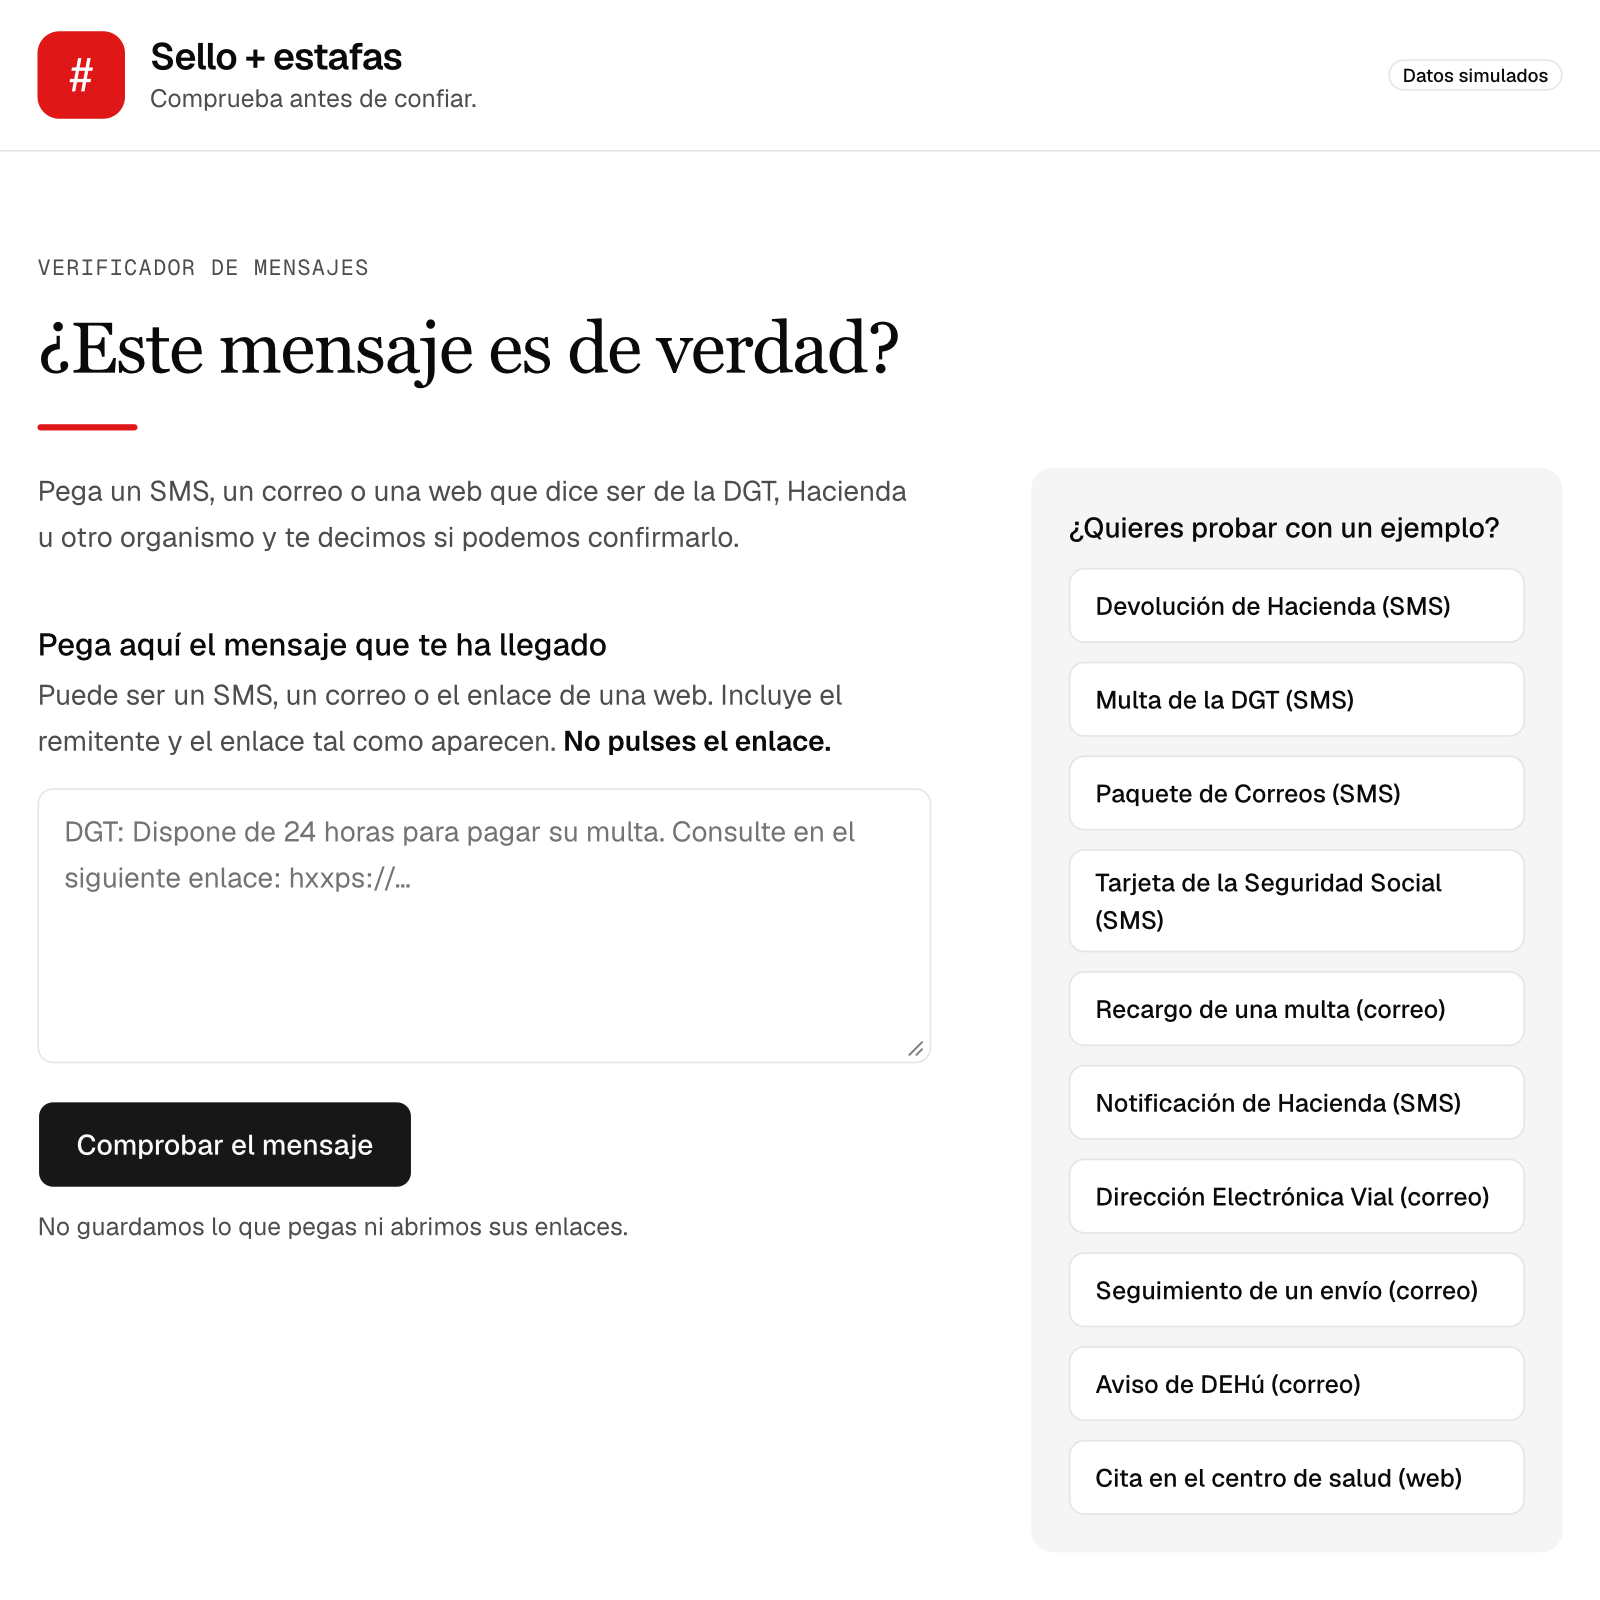
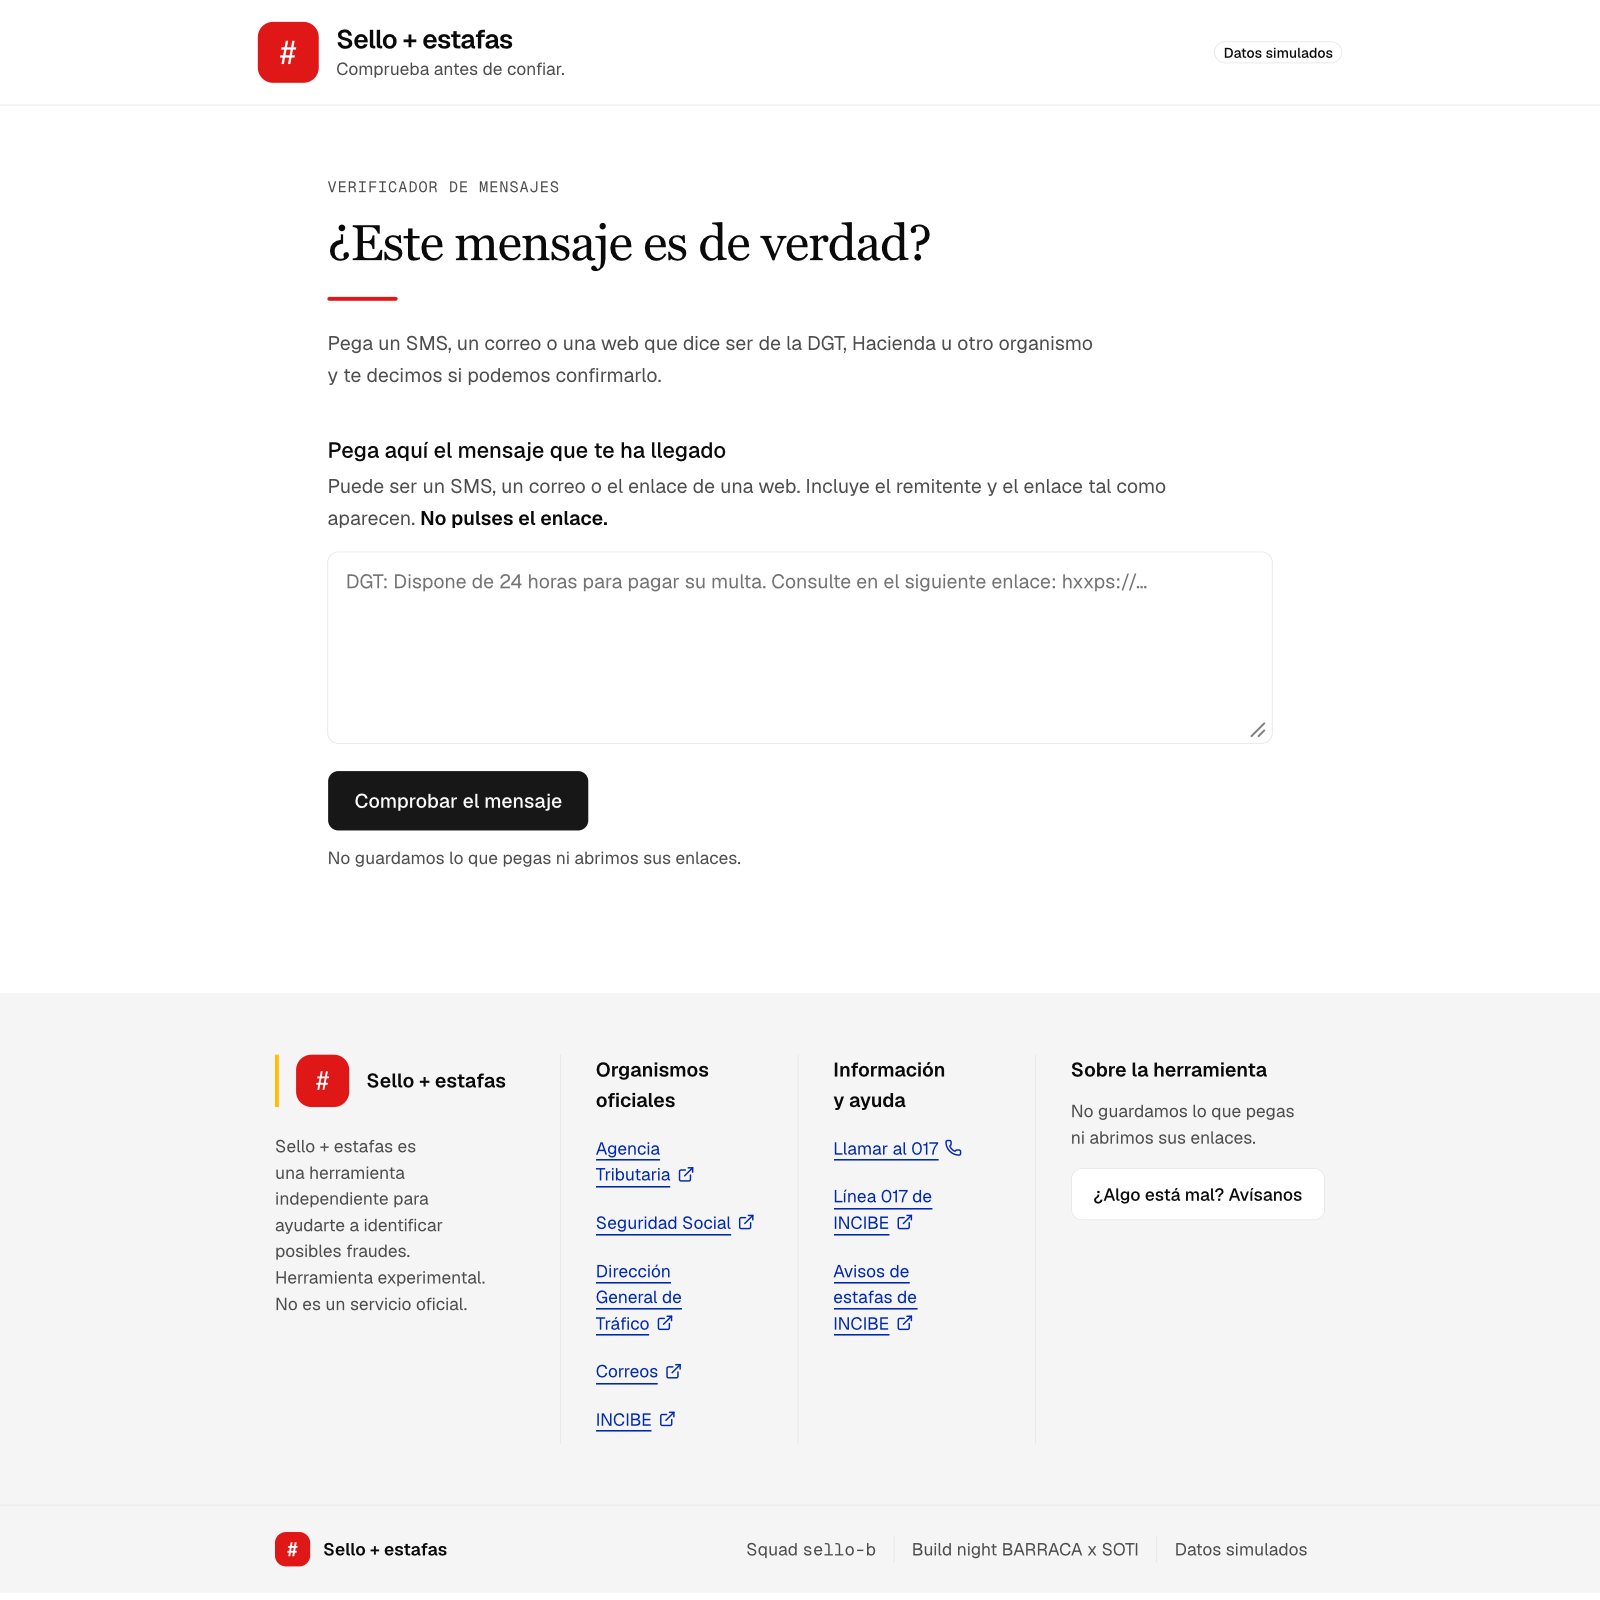
feat: ancho máximo como Import@ss (1024 px; contenido 58rem) con evidencia

diff --git a/src/app/page.tsx b/src/app/page.tsx
@@ -36,6 +36,10 @@ const enlacePie =
 
 // ?casos-test enseña el panel de ejemplos (para demos y pruebas); sin él, el
 // verificador ocupa todo el ancho. ?casos-test=false o =0 también lo ocultan.
+// Anchos del portal Import@ss (evidencia en docs/evidencias/ancho-importass.md):
+// header y pie a 1024 px (max-w-5xl = 64rem, como .ss-header y .ss-wrapper) y el
+// contenido a 58rem con 2rem de margen, como .ss-content. Con el panel de
+// ejemplos el contenido usa los 1024 px para que quepan las dos columnas.
 export default async function Home({
   searchParams,
 }: {
@@ -48,7 +52,7 @@ export default async function Home({
   return (
     <>
       <header className="border-b border-border bg-background">
-        <div className="mx-auto flex min-h-24 max-w-(--container-content) flex-wrap items-center justify-between gap-4 px-(--page-gutter) py-4">
+        <div className="mx-auto flex min-h-24 max-w-5xl flex-wrap items-center justify-between gap-4 px-4 py-4">
           {/* Icono, nombre y frase de ficha.json: sin logotipos de la Administración. */}
           <span className="inline-flex items-center gap-4">
             <span
@@ -73,7 +77,10 @@ export default async function Home({
       <main
         id="contenido"
         tabIndex={-1}
-        className="mx-auto max-w-(--container-content) px-(--page-gutter) pt-12 pb-20 outline-none md:pt-16"
+        className={cn(
+          "mx-auto px-(--page-gutter) pt-12 pb-20 outline-none md:px-8 md:pt-16",
+          conEjemplos ? "max-w-5xl" : "max-w-[58rem]",
+        )}
       >
         <p className="font-mono text-sm tracking-[0.06em] text-(--text-secondary) uppercase">
           Verificador de mensajes
@@ -99,7 +106,7 @@ export default async function Home({
       {/* Pie con la maqueta del equipo (estilo portal de la Administración), pero
           con la marca de ficha.json: sin escudos ni logotipos oficiales. */}
       <footer className="mt-8 bg-muted text-base">
-        <div className="mx-auto grid max-w-(--container-content) gap-10 px-(--page-gutter) py-14 md:grid-cols-2 lg:grid-cols-[1.2fr_1fr_1fr_1fr] lg:gap-0">
+        <div className="mx-auto grid max-w-5xl gap-10 px-(--page-gutter) py-14 md:px-8 md:grid-cols-2 lg:grid-cols-[1.2fr_1fr_1fr_1fr] lg:gap-0">
           <div className="lg:pr-10">
             <span className="inline-flex items-center gap-4 border-l-4 border-brand-yellow pl-4">
               <span
@@ -165,7 +172,7 @@ export default async function Home({
         </div>
 
         <div className="border-t border-border">
-          <div className="mx-auto flex max-w-(--container-content) flex-wrap items-center justify-between gap-4 px-(--page-gutter) py-6">
+          <div className="mx-auto flex max-w-5xl flex-wrap items-center justify-between gap-4 px-(--page-gutter) md:px-8 py-6">
             <span className="inline-flex items-center gap-3 font-semibold">
               <span
                 aria-hidden="true"

diff --git a/docs/evidencias/ancho-importass.md b/docs/evidencias/ancho-importass.md
@@ -1,0 +1,33 @@
+# Evidencia: ancho máximo como el portal Import@ss
+
+Página de referencia: <https://portal.seg-social.gob.es/wps/portal/importass/importass/Colectivos/Trabajo+Autonomo>, consultada el 22/10/2026.
+
+## Qué mide Import@ss
+
+Reglas de la hoja de estilos de esa página (`/wps/contenthandler/importass/…/sp/mashup:ra:collection…`, `post_estilos_principales`):
+
+| Bloque | Regla | Ancho |
+| --- | --- | --- |
+| Header | `.ss-header { max-width: 1024px; padding-left/right: 1rem }` | 1024 px |
+| Contenedor general y pie | `.ss-wrapper { max-width: 1024px; padding: 0 1.5rem }`, `2rem` desde `45rem` | 1024 px |
+| Cabecera de sección | `.ss-hero { max-width: 64rem }` | 1024 px |
+| Texto de la página | `.ss-content { max-width: 58rem; padding: 0 1.5rem }`, `2rem` desde `45rem` | 928 px (864 px de texto) |
+
+## Qué hace Sello B
+
+| Bloque | Clases (`src/app/page.tsx`) | Ancho |
+| --- | --- | --- |
+| Header | `max-w-5xl px-4` | 1024 px (`max-w-5xl` = 64rem) |
+| Pie | `max-w-5xl md:px-8` | 1024 px |
+| Contenido | `max-w-[58rem] md:px-8` | 928 px (864 px de texto) |
+| Contenido con `?casos-test` | `max-w-5xl md:px-8` | 1024 px, para que quepa el panel de ejemplos |
+
+## Comparación con la misma ventana (~1440 px)
+
+Renderizadas con la misma ventana simulada. En las dos, el header ocupa el mismo ancho y el texto arranca y termina en la misma columna.
+
+| Import@ss | Sello B |
+| --- | --- |
+| ![Import@ss](importass-trabajo-autonomo-1440.png) | ![Sello B](sello-b-1440.png) |
+
+La captura de Import@ss se hizo sin sus scripts ni su logotipo (no se carga fuera del portal); solo sirve para comparar anchos.
